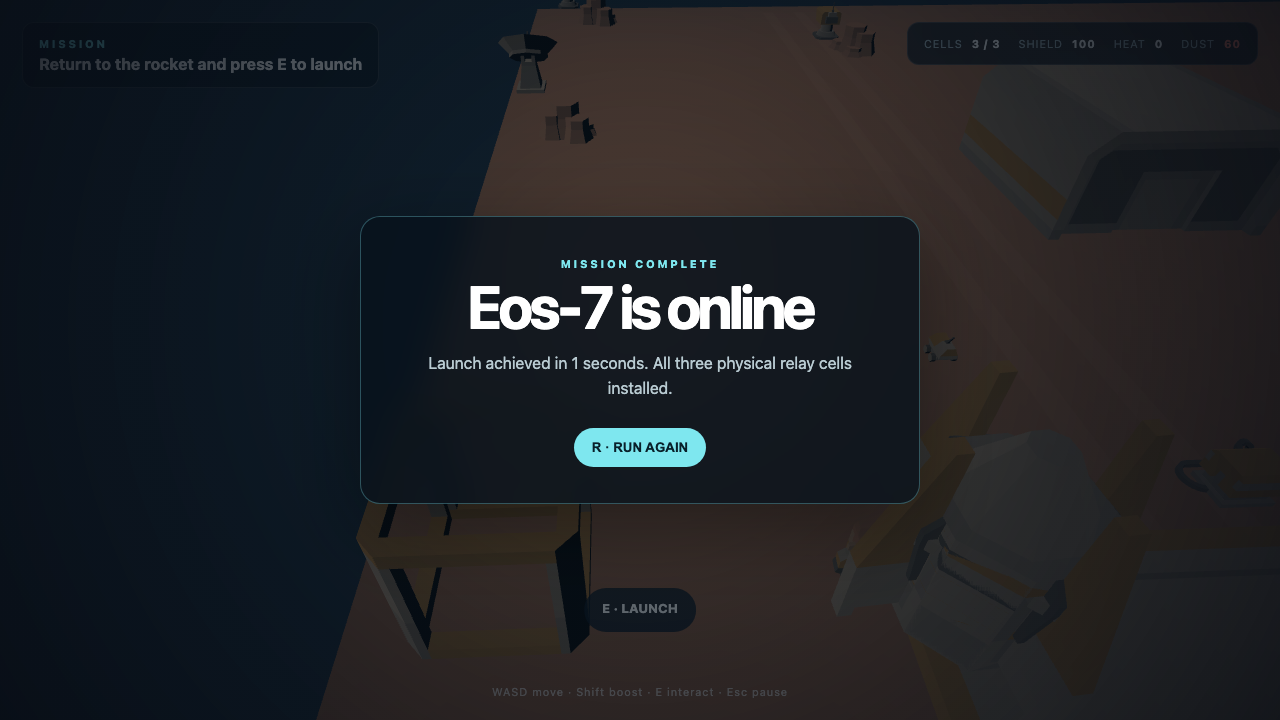
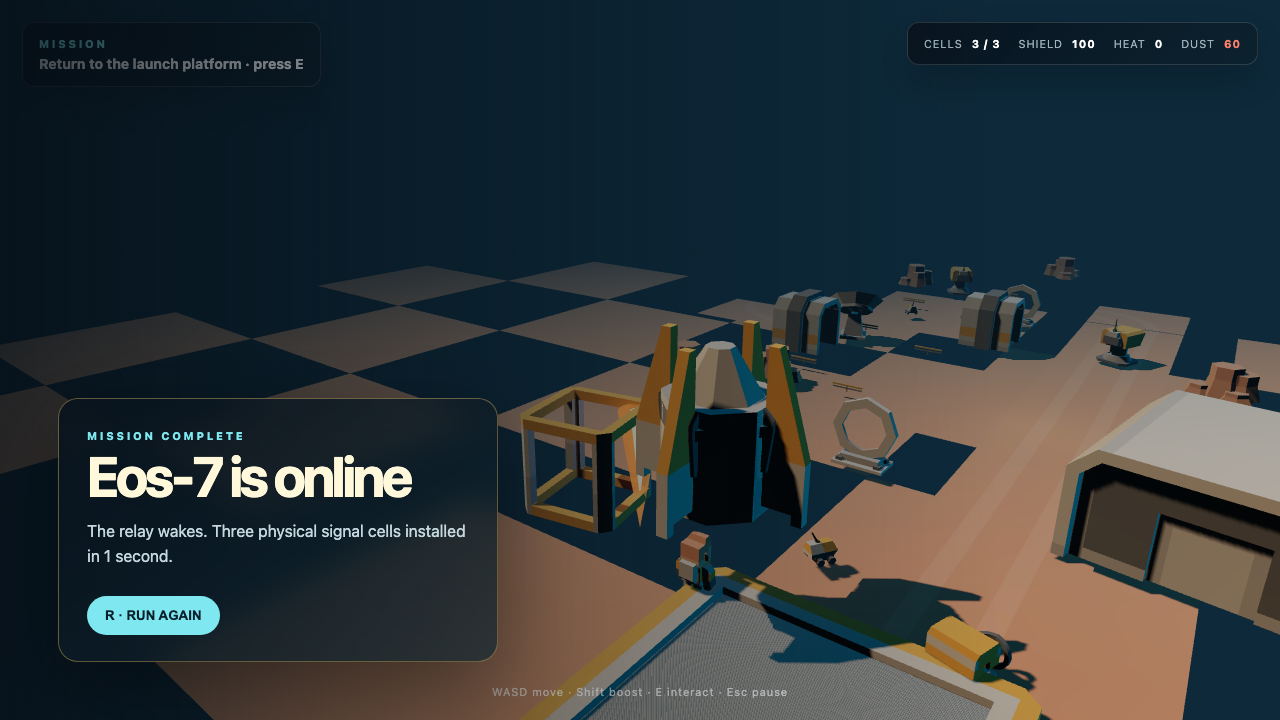
feat: polish Eos-7 world and controls
Improve the scene, camera-relative movement, launch presentation, and responsive HUD. Add configurable Vite host allowlisting plus deterministic and full-route browser coverage.\n\nVerified with npm test, npm run build, and npm run smoke (2 browser scenarios).

diff --git a/src/main.ts b/src/main.ts
@@ -4,28 +4,125 @@ import {GLTFLoader} from 'three/examples/jsm/loaders/GLTFLoader.js'
 import {freshState,install,launch,pickup,tickDanger,type GameState} from './game-state'
 
 const assetRoot='/assets/kenney-space-kit/'
-const assets=['astronautA','rover','rock_crystalsLargeA','rock_crystalsLargeB','rocket_baseA','rocket_fuelA','rocket_sidesA','rocket_finsA','rocket_topA','terrain','terrain_roadStraight','terrain_roadCorner','craterLarge','rock_largeA','rock_largeB','turret_single','structure_detailed','hangar_smallA','satelliteDish_large','platform_large','gate_simple','machine_generator'] as const
+const assets=['astronautA','rover','rock_crystalsLargeA','rock_crystalsLargeB','rocket_baseA','rocket_fuelA','rocket_sidesA','rocket_finsA','rocket_topA','terrain','terrain_roadStraight','terrain_roadCorner','craterLarge','rock_largeA','rock_largeB','turret_single','structure_detailed','hangar_smallA','satelliteDish_large','platform_large','gate_simple','machine_generator','corridor_detailed','rail_middle'] as const
 type Asset=typeof assets[number]
-const scene=new THREE.Scene();scene.background=new THREE.Color('#172735');scene.fog=new THREE.Fog('#172735',28,80)
-const camera=new THREE.PerspectiveCamera(58,innerWidth/innerHeight,.1,160)
-const renderer=new THREE.WebGLRenderer({antialias:true});renderer.setPixelRatio(Math.min(devicePixelRatio,1.75));renderer.setSize(innerWidth,innerHeight);renderer.shadowMap.enabled=true;renderer.shadowMap.type=THREE.PCFSoftShadowMap;renderer.outputColorSpace=THREE.SRGBColorSpace;document.querySelector('#game')!.append(renderer.domElement)
-scene.add(new THREE.HemisphereLight('#bde6ef','#283642',2.2));const sun=new THREE.DirectionalLight('#ffd6ab',3.4);sun.position.set(-18,26,10);sun.castShadow=true;sun.shadow.mapSize.set(2048,2048);scene.add(sun)
+
+const scene=new THREE.Scene()
+scene.background=new THREE.Color('#102837')
+scene.fog=new THREE.FogExp2('#102837',.018)
+const camera=new THREE.PerspectiveCamera(50,innerWidth/innerHeight,.1,160)
+const renderer=new THREE.WebGLRenderer({antialias:true})
+renderer.setPixelRatio(Math.min(devicePixelRatio,1.75))
+renderer.setSize(innerWidth,innerHeight)
+renderer.shadowMap.enabled=true
+renderer.shadowMap.type=THREE.PCFSoftShadowMap
+renderer.outputColorSpace=THREE.SRGBColorSpace
+renderer.toneMapping=THREE.ACESFilmicToneMapping
+renderer.toneMappingExposure=1.14
+document.querySelector('#game')!.append(renderer.domElement)
+
+scene.add(new THREE.HemisphereLight('#c9f0ff','#24303d',1.75))
+const sun=new THREE.DirectionalLight('#ffd7ae',4.2)
+sun.position.set(-16,24,12)
+sun.castShadow=true
+sun.shadow.mapSize.set(2048,2048)
+sun.shadow.camera.left=-28;sun.shadow.camera.right=28;sun.shadow.camera.top=28;sun.shadow.camera.bottom=-28
+scene.add(sun)
+const rim=new THREE.DirectionalLight('#70d9ff',1.6)
+rim.position.set(14,9,-20)
+scene.add(rim)
+
+const starsGeometry=new THREE.BufferGeometry()
+const starPositions=new Float32Array(360)
+for(let i=0;i<starPositions.length;i+=3){starPositions[i]=(Math.random()-.5)*130;starPositions[i+1]=18+Math.random()*44;starPositions[i+2]=-20-Math.random()*80}
+starsGeometry.setAttribute('position',new THREE.BufferAttribute(starPositions,3))
+scene.add(new THREE.Points(starsGeometry,new THREE.PointsMaterial({color:'#d8f5ff',size:.18,transparent:true,opacity:.75})))
+
 const clock=new THREE.Clock(),loader=new GLTFLoader(),models=new Map<Asset,THREE.Object3D>(),keys=new Set<string>()
-let state:GameState=freshState(),paused=false,player=new THREE.Group(),rocket=new THREE.Group(),rocketParts:THREE.Object3D[]=[],cells:THREE.Object3D[]=[],turrets:THREE.Object3D[]=[],elapsed=0,boostHeat=0,boostLocked=false
+let state:GameState=freshState(),paused=false,player=new THREE.Group(),rocket=new THREE.Group(),rocketExhaust=new THREE.Group(),rocketParts:THREE.Object3D[]=[],cells:THREE.Object3D[]=[],cellBeacons:THREE.Group[]=[],turrets:THREE.Object3D[]=[],elapsed=0,boostHeat=0,boostLocked=false,movementScale=1
 const startPosition=new THREE.Vector3(0,0,2),cellPositions=[new THREE.Vector3(0,0,-8),new THREE.Vector3(12,0,-20),new THREE.Vector3(-12,0,-34)],rocketPosition=new THREE.Vector3(0,0,7)
 const $=(selector:string)=>document.querySelector<HTMLElement>(selector)!
-function clone(name:Asset,position:THREE.Vector3,scale=1){const object=models.get(name)!.clone(true);object.position.copy(position);object.scale.setScalar(scale);object.traverse(child=>{if(child instanceof THREE.Mesh){child.castShadow=true;child.receiveShadow=true}});scene.add(object);return object}
 
-async function load(){await Promise.all(assets.map(async name=>{const gltf=await loader.loadAsync(`${assetRoot}${name}.glb`);models.set(name,gltf.scene);$('#load-status').textContent=`Loading Kenney assets · ${models.size}/${assets.length}`}));buildWorld();reset();$('#loading').hidden=true;$('#hud').hidden=false;animate()}
-function buildWorld(){for(let z=-40;z<=10;z+=10)for(let x=-20;x<=20;x+=10)clone('terrain',new THREE.Vector3(x,-.35,z),10);for(let z=-33;z<=7;z+=5)clone('terrain_roadStraight',new THREE.Vector3(0,-.22,z),5);clone('platform_large',rocketPosition.clone().setY(-.1),4);clone('structure_detailed',new THREE.Vector3(-8,0,5),2.8);clone('hangar_smallA',new THREE.Vector3(9,0,-9),3.2);clone('satelliteDish_large',new THREE.Vector3(-10,0,-19),3);clone('craterLarge',new THREE.Vector3(9,-.1,-27),4);clone('machine_generator',new THREE.Vector3(7,0,5),2);[[-7,-13],[7,-23],[-6,-29],[6,-36]].forEach(([x,z],i)=>clone(i%2?'rock_largeB':'rock_largeA',new THREE.Vector3(x,0,z),2.4));turrets=[clone('turret_single',new THREE.Vector3(7,0,-25),2),clone('turret_single',new THREE.Vector3(-7,0,-32),2)];rocket.position.copy(rocketPosition);scene.add(rocket);for(const name of ['rocket_baseA','rocket_sidesA'] as Asset[]){const p=models.get(name)!.clone(true);p.scale.setScalar(2.3);rocket.add(p)}rocketParts=(['rocket_fuelA','rocket_finsA','rocket_topA'] as Asset[]).map((name,i)=>{const p=models.get(name)!.clone(true);p.scale.setScalar(2.3);p.position.y=i*.82;p.visible=false;rocket.add(p);return p});player.add(models.get('astronautA')!.clone(true));player.scale.setScalar(1.7);scene.add(player);clone('rover',new THREE.Vector3(3,0,1),2);cells=cellPositions.map((p,i)=>clone(i===1?'rock_crystalsLargeB':'rock_crystalsLargeA',p,2.2))}
-function reset(){state=freshState();elapsed=0;boostHeat=0;boostLocked=false;paused=false;player.position.copy(startPosition);player.rotation.set(0,0,0);cells.forEach((cell,i)=>{cell.position.copy(cellPositions[i]);cell.visible=true});rocketParts.forEach(p=>p.visible=false);rocket.position.copy(rocketPosition);rocket.rotation.set(0,0,0);$('#terminal').hidden=true;$('#pause').hidden=true;updateHud()}
-function nearbyCell(){return cells.findIndex((cell,i)=>!state.collected[i]&&cell.position.distanceTo(player.position)<2.8)}
-function interact(){if(state.phase!=='playing')return;const cell=nearbyCell();if(cell>=0&&state.carrying===null){state=pickup(state,cell);cells[cell].visible=false;chirp(620);updateHud();return}if(state.carrying!==null&&player.position.distanceTo(rocketPosition)<4){state=install(state);rocketParts[state.installed-1].visible=true;chirp(880);updateHud();return}if(state.installed===3&&player.position.distanceTo(rocketPosition)<4){state=launch(state);chirp(1100);finish()}}
+function prepare(object:THREE.Object3D){object.traverse(child=>{if(child instanceof THREE.Mesh){child.castShadow=true;child.receiveShadow=true}});return object}
+function clone(name:Asset,position:THREE.Vector3,scale=1,rotation=0){const object=prepare(models.get(name)!.clone(true));object.position.copy(position);object.scale.setScalar(scale);object.rotation.y=rotation;scene.add(object);return object}
+function accent(position:THREE.Vector3,color:string,intensity=4,distance=11){const light=new THREE.PointLight(color,intensity,distance,2);light.position.copy(position);scene.add(light);return light}
+function createBeacon(position:THREE.Vector3,color:string){const group=new THREE.Group();group.position.copy(position);const material=new THREE.MeshBasicMaterial({color,transparent:true,opacity:.82});const ring=new THREE.Mesh(new THREE.TorusGeometry(1.28,.065,8,32),material);ring.rotation.x=Math.PI/2;ring.position.y=.1;group.add(ring);const beam=new THREE.Mesh(new THREE.CylinderGeometry(.1,.34,4.8,12,1,true),new THREE.MeshBasicMaterial({color,transparent:true,opacity:.18,depthWrite:false}));beam.position.y=2.4;group.add(beam);const marker=new THREE.Mesh(new THREE.OctahedronGeometry(.22),material);marker.position.y=4.9;group.add(marker);const light=new THREE.PointLight(color,5.8,8,2);light.position.y=1.2;group.add(light);scene.add(group);return group}
+
+async function load(){await Promise.all(assets.map(async name=>{const gltf=await loader.loadAsync(`${assetRoot}${name}.glb`);models.set(name,prepare(gltf.scene));$('#load-status').textContent=`Loading Kenney Space Kit · ${models.size}/${assets.length}`}));buildWorld();reset();$('#loading').hidden=true;$('#hud').hidden=false;animate()}
+
+function buildWorld(){
+  for(let z=-40;z<=10;z+=10)for(let x=-20;x<=20;x+=10){const tile=clone('terrain',new THREE.Vector3(x,-.35,z),10,((x+z)/10%2)*Math.PI/2);tile.position.y=-.4}
+  for(let z=-33;z<=7;z+=5)clone('terrain_roadStraight',new THREE.Vector3(0,-.2,z),5)
+  clone('terrain_roadCorner',new THREE.Vector3(5,-.18,-18),5,Math.PI/2)
+  clone('terrain_roadCorner',new THREE.Vector3(-5,-.18,-30),5,-Math.PI/2)
+
+  clone('platform_large',rocketPosition.clone().setY(-.08),4.2)
+  clone('structure_detailed',new THREE.Vector3(-8.5,0,4.5),3.25,.18)
+  clone('hangar_smallA',new THREE.Vector3(9.5,0,-7),3.5,-.18)
+  clone('satelliteDish_large',new THREE.Vector3(-10.5,0,-18),3.45,.35)
+  clone('machine_generator',new THREE.Vector3(7.2,0,4),2.45,-.3)
+  clone('corridor_detailed',new THREE.Vector3(-7.6,0,-7),2.65,Math.PI/2)
+  clone('corridor_detailed',new THREE.Vector3(8,0,-24),2.55,-Math.PI/2)
+  clone('gate_simple',new THREE.Vector3(0,0,-3.6),2.35)
+  clone('gate_simple',new THREE.Vector3(0,0,-27.5),2.2)
+  clone('rover',new THREE.Vector3(4,0,1),2.45,-.55)
+  clone('rover',new THREE.Vector3(-6.8,0,-22),2.15,.75)
+
+  ;[[-4,-4],[4,-4],[-5,-12],[5,-12],[-5,-20],[5,-20],[-5,-28],[5,-28]].forEach(([x,z],i)=>clone('rail_middle',new THREE.Vector3(x,0,z),1.4,i%2?Math.PI:0))
+  clone('craterLarge',new THREE.Vector3(10,-.08,-30),5)
+  ;[[-8,-11],[8,-15],[-7,-25],[7,-35],[-13,-6],[13,-16]].forEach(([x,z],i)=>clone(i%2?'rock_largeB':'rock_largeA',new THREE.Vector3(x,0,z),2.8,(i*.9)%Math.PI))
+  turrets=[clone('turret_single',new THREE.Vector3(7,0,-25),2.55,-.4),clone('turret_single',new THREE.Vector3(-7,0,-32),2.55,.4)]
+
+  accent(new THREE.Vector3(0,3,6),'#ff9a5f',5.2,15)
+  accent(new THREE.Vector3(-8,2.2,3),'#78ddff',4.2,12)
+  accent(new THREE.Vector3(9,2,-8),'#ffd16e',3.4,12)
+  accent(new THREE.Vector3(-10,3,-18),'#73bfff',3.6,13)
+
+  rocket.position.copy(rocketPosition);scene.add(rocket)
+  for(const name of ['rocket_baseA','rocket_sidesA'] as Asset[]){const part=prepare(models.get(name)!.clone(true));part.scale.setScalar(2.55);rocket.add(part)}
+  rocketParts=(['rocket_fuelA','rocket_finsA','rocket_topA'] as Asset[]).map((name,i)=>{const part=prepare(models.get(name)!.clone(true));part.scale.setScalar(2.55);part.position.y=i*.9;part.visible=false;rocket.add(part);return part})
+  const outerFlame=new THREE.Mesh(new THREE.ConeGeometry(.72,4.2,18),new THREE.MeshBasicMaterial({color:'#ff7a35',transparent:true,opacity:.72,depthWrite:false,side:THREE.DoubleSide}));outerFlame.rotation.z=Math.PI;outerFlame.position.y=-2.3;rocketExhaust.add(outerFlame)
+  const innerFlame=new THREE.Mesh(new THREE.ConeGeometry(.32,3.1,14),new THREE.MeshBasicMaterial({color:'#fff2a8',transparent:true,opacity:.92,depthWrite:false,side:THREE.DoubleSide}));innerFlame.rotation.z=Math.PI;innerFlame.position.y=-1.75;rocketExhaust.add(innerFlame)
+  const exhaustLight=new THREE.PointLight('#ff9c52',7,14,2);exhaustLight.position.y=-1.2;rocketExhaust.add(exhaustLight);rocketExhaust.visible=false;rocket.add(rocketExhaust)
+  player.add(prepare(models.get('astronautA')!.clone(true)));player.scale.setScalar(2.2);scene.add(player)
+  cells=cellPositions.map((position,i)=>clone(i===1?'rock_crystalsLargeB':'rock_crystalsLargeA',position,2.65,i*.7))
+  cellBeacons=cellPositions.map((position,i)=>createBeacon(position.clone(),i===1?'#ffb158':'#6ef3ff'))
+}
+
+function reset(){state=freshState();elapsed=0;boostHeat=0;boostLocked=false;paused=false;player.position.copy(startPosition);player.rotation.set(0,0,0);cells.forEach((cell,i)=>{cell.position.copy(cellPositions[i]);cell.visible=true;cellBeacons[i].visible=true});rocketParts.forEach(part=>part.visible=false);rocketExhaust.visible=false;rocket.position.copy(rocketPosition);rocket.rotation.set(0,0,0);camera.position.set(startPosition.x+8.8,8.2,startPosition.z+11.5);camera.lookAt(startPosition.x,startPosition.y+1.4,startPosition.z-2.5);$('#terminal').hidden=true;$('#pause').hidden=true;document.body.classList.remove('mission-complete');updateHud()}
+function nearbyCell(){return cells.findIndex((cell,i)=>!state.collected[i]&&cell.position.distanceTo(player.position)<3.2)}
+function interact(){if(state.phase!=='playing')return;const cell=nearbyCell();if(cell>=0&&state.carrying===null){state=pickup(state,cell);cells[cell].visible=false;cellBeacons[cell].visible=false;chirp(620);updateHud();return}if(state.carrying!==null&&player.position.distanceTo(rocketPosition)<4.8){state=install(state);rocketParts[state.installed-1].visible=true;chirp(880);updateHud();return}if(state.installed===3&&player.position.distanceTo(rocketPosition)<4.8){state=launch(state);chirp(1100);finish()}}
 function chirp(frequency:number){const ctx=new AudioContext(),osc=ctx.createOscillator(),gain=ctx.createGain();osc.frequency.value=frequency;gain.gain.setValueAtTime(.045,ctx.currentTime);gain.gain.exponentialRampToValueAtTime(.001,ctx.currentTime+.12);osc.connect(gain).connect(ctx.destination);osc.start();osc.stop(ctx.currentTime+.13)}
-function updateHud(){$('#cells').textContent=`${state.installed} / 3`;$('#shield').textContent=Math.ceil(state.shield).toString();$('#heat').textContent=boostLocked?'COOL':Math.ceil(boostHeat).toString();$('#timer-wrap').hidden=state.dustSeconds===null;$('#timer').textContent=Math.ceil(state.dustSeconds??60).toString();$('#objective').textContent=state.installed===3?'Return to the rocket and press E to launch':state.carrying!==null?'Deliver the signal cell to the rocket':`Recover signal cell ${state.installed+1}`}
-function finish(){const success=state.phase==='completed';$('#terminal-tag').textContent=success?'MISSION COMPLETE':'SIGNAL LOST';$('#terminal-title').textContent=success?'Eos-7 is online':state.phase==='failed_timer'?'The dust front arrived':'Your shield collapsed';$('#terminal-copy').textContent=success?`Launch achieved in ${Math.max(1,Math.round(elapsed))} seconds. All three physical relay cells installed.`:'Press R to reset every system and try a safer route.';$('#terminal').hidden=false}
-function move(dt:number){if(paused||state.phase!=='playing')return;const direction=new THREE.Vector3((keys.has('KeyD')||keys.has('ArrowRight')?1:0)-(keys.has('KeyA')||keys.has('ArrowLeft')?1:0),0,(keys.has('KeyS')||keys.has('ArrowDown')?1:0)-(keys.has('KeyW')||keys.has('ArrowUp')?1:0));const wantsBoost=keys.has('ShiftLeft')||keys.has('ShiftRight');const boosting=wantsBoost&&!boostLocked&&direction.lengthSq()>0;if(boosting){boostHeat=Math.min(100,boostHeat+34*dt);if(boostHeat>=100)boostLocked=true}else{boostHeat=Math.max(0,boostHeat-22*dt);if(boostLocked&&boostHeat<=18)boostLocked=false}if(direction.lengthSq()){direction.normalize();const speed=boosting?9:4.2;player.position.addScaledVector(direction,speed*dt);player.position.x=THREE.MathUtils.clamp(player.position.x,-19,19);player.position.z=THREE.MathUtils.clamp(player.position.z,-39,9);player.rotation.y=Math.atan2(direction.x,direction.z);player.rotation.z=THREE.MathUtils.lerp(player.rotation.z,-direction.x*.12,.12)}else player.rotation.z*=.88;const inDanger=turrets.some(t=>t.position.distanceTo(player.position)<7);state=tickDanger(state,dt,inDanger?12*dt:0);if(state.phase!=='playing')finish()}
-function animate(){requestAnimationFrame(animate);const dt=Math.min(clock.getDelta(),.05);if(!paused&&state.phase==='playing')elapsed+=dt;move(dt);cells.forEach((cell,i)=>{cell.rotation.y+=dt*.8;cell.position.y=cellPositions[i].y+.2+Math.sin(elapsed*2+i)*.16});if(state.phase==='completed'){rocket.position.y+=dt*2.5;rocket.rotation.y+=dt*.5}const target=new THREE.Vector3(player.position.x,player.position.y+10,player.position.z+13);camera.position.lerp(target,1-Math.pow(.001,dt));camera.lookAt(player.position.x,player.position.y+1,player.position.z-2);const cell=nearbyCell();let prompt='';if(cell>=0&&state.carrying===null)prompt='E · PICK UP SIGNAL CELL';else if(player.position.distanceTo(rocketPosition)<4&&state.carrying!==null)prompt='E · INSTALL CELL';else if(player.position.distanceTo(rocketPosition)<4&&state.installed===3)prompt='E · LAUNCH';$('#prompt').textContent=prompt;$('#prompt').classList.toggle('visible',Boolean(prompt));updateHud();renderer.render(scene,camera)}
-addEventListener('keydown',e=>{keys.add(e.code);if(e.code==='KeyE'&&!e.repeat)interact();if(e.code==='KeyR')reset();if(e.code==='Escape'){paused=!paused;$('#pause').hidden=!paused}});addEventListener('keyup',e=>keys.delete(e.code));addEventListener('resize',()=>{camera.aspect=innerWidth/innerHeight;camera.updateProjectionMatrix();renderer.setSize(innerWidth,innerHeight)});$('#restart').addEventListener('click',reset)
-Object.assign(window,{__EOS7__:{getState:()=>structuredClone(state),teleport:(x:number,z:number)=>player.position.set(x,0,z),interact,reset}})
+function updateHud(){$('#cells').textContent=`${state.installed} / 3`;$('#shield').textContent=Math.ceil(state.shield).toString();$('#heat').textContent=boostLocked?'COOL':Math.ceil(boostHeat).toString();$('#timer-wrap').hidden=state.dustSeconds===null;$('#timer').textContent=Math.ceil(state.dustSeconds??60).toString();$('#objective').textContent=state.installed===3?'Return to the launch platform · press E':state.carrying!==null?'Carry the glowing cell back to the rocket':`Follow the beacon · recover cell ${state.installed+1}`}
+function finish(){const success=state.phase==='completed',duration=Math.max(1,Math.round(elapsed));if(success){rocketExhaust.visible=true;rocket.position.y=3.2;camera.position.set(rocketPosition.x+14,11.2,rocketPosition.z+18);camera.lookAt(rocketPosition.x,rocket.position.y+1.5,rocketPosition.z)}$('#terminal-tag').textContent=success?'MISSION COMPLETE':'SIGNAL LOST';$('#terminal-title').textContent=success?'Eos-7 is online':state.phase==='failed_timer'?'The dust front arrived':'Your shield collapsed';$('#terminal-copy').textContent=success?`The relay wakes. Three physical signal cells installed in ${duration} ${duration===1?'second':'seconds'}.`:'Press R to reset every system and try a safer route.';$('#terminal').hidden=false;document.body.classList.toggle('mission-complete',success)}
+function movementBasis(){const forward=new THREE.Vector3();camera.getWorldDirection(forward);forward.y=0;forward.normalize();const right=new THREE.Vector3().crossVectors(forward,new THREE.Vector3(0,1,0)).normalize();return{forward,right}}
+function move(dt:number){
+  if(paused||state.phase!=='playing')return
+  const forwardInput=(keys.has('KeyW')||keys.has('ArrowUp')?1:0)-(keys.has('KeyS')||keys.has('ArrowDown')?1:0)
+  const rightInput=(keys.has('KeyD')||keys.has('ArrowRight')?1:0)-(keys.has('KeyA')||keys.has('ArrowLeft')?1:0)
+  const {forward,right}=movementBasis()
+  const direction=forward.multiplyScalar(forwardInput).add(right.multiplyScalar(rightInput))
+  const wantsBoost=keys.has('ShiftLeft')||keys.has('ShiftRight')
+  const boosting=wantsBoost&&!boostLocked&&direction.lengthSq()>0
+  if(boosting){boostHeat=Math.min(100,boostHeat+34*dt);if(boostHeat>=100)boostLocked=true}else{boostHeat=Math.max(0,boostHeat-22*dt);if(boostLocked&&boostHeat<=18)boostLocked=false}
+  const avatar=player.children[0]
+  if(direction.lengthSq()){
+    direction.normalize();const speed=(boosting?6.8:4.2)*movementScale
+    player.position.addScaledVector(direction,speed*dt);player.position.y=0
+    player.position.x=THREE.MathUtils.clamp(player.position.x,-19,19);player.position.z=THREE.MathUtils.clamp(player.position.z,-39,9)
+    player.rotation.y=Math.atan2(direction.x,direction.z);player.rotation.z=THREE.MathUtils.lerp(player.rotation.z,-rightInput*.07,.12)
+    if(avatar){avatar.position.y=Math.abs(Math.sin(elapsed*8))*.075;avatar.rotation.z=Math.sin(elapsed*8)*.025}
+  }else{
+    player.position.y=0;player.rotation.z*=.82
+    if(avatar){avatar.position.y=THREE.MathUtils.lerp(avatar.position.y,0,.22);avatar.rotation.z*=.78}
+  }
+  const inDanger=turrets.some(turret=>turret.position.distanceTo(player.position)<7);state=tickDanger(state,dt,inDanger?12*dt:0);if(state.phase!=='playing')finish()
+}
+function animate(){requestAnimationFrame(animate);const dt=Math.min(clock.getDelta(),.05);if(!paused&&state.phase==='playing')elapsed+=dt;move(dt);cells.forEach((cell,i)=>{cell.rotation.y+=dt*.8;cell.position.y=cellPositions[i].y+.25+Math.sin(elapsed*2+i)*.16;cellBeacons[i].rotation.y+=dt*.55});if(state.phase==='completed'){rocket.position.y+=dt*2.5;rocket.rotation.y+=dt*.5}if(state.phase==='playing'){const target=new THREE.Vector3(player.position.x+8.8,player.position.y+8.2,player.position.z+11.5);camera.position.lerp(target,1-Math.pow(.0005,dt));camera.lookAt(player.position.x,player.position.y+1.4,player.position.z-2.5)}else if(state.phase==='completed'){const target=new THREE.Vector3(rocket.position.x+14,rocket.position.y+11.2,rocket.position.z+18);camera.position.lerp(target,1-Math.pow(.0005,dt));camera.lookAt(rocket.position.x,rocket.position.y+1.5,rocket.position.z)}const cell=nearbyCell();let prompt='';if(state.phase==='playing'){if(cell>=0&&state.carrying===null)prompt='E · PICK UP SIGNAL CELL';else if(player.position.distanceTo(rocketPosition)<4.8&&state.carrying!==null)prompt='E · INSTALL CELL';else if(player.position.distanceTo(rocketPosition)<4.8&&state.installed===3)prompt='E · LAUNCH'}$('#prompt').textContent=prompt;$('#prompt').classList.toggle('visible',Boolean(prompt));updateHud();renderer.render(scene,camera)}
+
+addEventListener('keydown',event=>{keys.add(event.code);if(event.code==='KeyE'&&!event.repeat)interact();if(event.code==='KeyR')reset();if(event.code==='Escape'){paused=!paused;$('#pause').hidden=!paused}})
+addEventListener('keyup',event=>keys.delete(event.code))
+addEventListener('resize',()=>{camera.aspect=innerWidth/innerHeight;camera.updateProjectionMatrix();renderer.setSize(innerWidth,innerHeight)})
+$('#restart').addEventListener('click',reset)
+Object.assign(window,{__EOS7__:{getState:()=>structuredClone(state),getPlayerPosition:()=>({x:player.position.x,z:player.position.z}),getMovementBasis:()=>{const {forward,right}=movementBasis();return{forward:{x:forward.x,z:forward.z},right:{x:right.x,z:right.z}}},setMovementScale:(scale:number)=>{movementScale=THREE.MathUtils.clamp(scale,1,8)},teleport:(x:number,z:number)=>player.position.set(x,0,z),interact,reset}})
 load().catch(error=>{console.error(error);$('#load-status').textContent=`Asset load failed: ${error instanceof Error?error.message:String(error)}`})

diff --git a/tests/browser.spec.ts b/tests/browser.spec.ts
@@ -1,5 +1,27 @@
 import {expect,test} from '@playwright/test'
+
 const held=async(page:any,code:string,ms:number)=>{await page.keyboard.down(code);await page.waitForTimeout(ms);await page.keyboard.up(code)}
+async function moveTo(page:any,targetX:number,targetZ:number,tolerance=1.8){
+  let previousDistance=Number.POSITIVE_INFINITY,stalledSteps=0
+  for(let step=0;step<320;step++){
+    const sample=await page.evaluate(()=>{const game=(window as any).__EOS7__;return{position:game.getPlayerPosition(),basis:game.getMovementBasis()}})
+    const dx=targetX-sample.position.x,dz=targetZ-sample.position.z,distance=Math.hypot(dx,dz)
+    if(distance<=tolerance)return
+    stalledSteps=distance>=previousDistance-.02?stalledSteps+1:0
+    if(stalledSteps>=30)throw new Error(`Keyboard navigation stalled at ${sample.position.x.toFixed(2)},${sample.position.z.toFixed(2)} while targeting ${targetX},${targetZ}`)
+    previousDistance=distance
+    const directions=[
+      {key:'w',...sample.basis.forward},
+      {key:'d',...sample.basis.right},
+      {key:'s',x:-sample.basis.forward.x,z:-sample.basis.forward.z},
+      {key:'a',x:-sample.basis.right.x,z:-sample.basis.right.z},
+    ]
+    const direction=directions.reduce((best,current)=>current.x*dx+current.z*dz>best.x*dx+best.z*dz?current:best)
+    await held(page,direction.key,Math.min(220,Math.max(60,distance*20)))
+  }
+  throw new Error(`Keyboard navigation did not reach ${targetX},${targetZ}`)
+}
+
 test('keyboard-driven full loop, launch, and restart',async({page})=>{const errors:string[]=[],failed:string[]=[];page.on('console',m=>{if(m.type()==='error')errors.push(m.text())});page.on('requestfailed',r=>failed.push(`${r.url()} ${r.failure()?.errorText}`));await page.goto('/');await expect(page.locator('#loading')).toBeHidden({timeout:20000});await page.screenshot({path:'evidence/onboarding.png'});for(const [x,z] of [[0,-8],[12,-20],[-12,-34]]){await page.evaluate(([px,pz])=>(window as any).__EOS7__.teleport(px,pz),[x,z]);await page.keyboard.press('e');await page.evaluate(()=>(window as any).__EOS7__.teleport(0,7));await page.keyboard.press('e')}await expect(page.locator('#cells')).toHaveText('3 / 3');await page.keyboard.press('e');await expect(page.locator('#terminal-title')).toHaveText('Eos-7 is online');await page.screenshot({path:'evidence/completed.png'});await page.keyboard.press('r');await expect(page.locator('#cells')).toHaveText('0 / 3');await expect(page.locator('#terminal')).toBeHidden();expect(errors).toEqual([]);expect(failed).toEqual([]);expect(await page.evaluate(()=>({x:document.documentElement.scrollWidth-innerWidth,y:document.documentElement.scrollHeight-innerHeight}))).toEqual({x:0,y:0})})
 
-test('held movement keys traverse every route without phase skip',async({page})=>{test.setTimeout(100000);await page.goto('/');await expect(page.locator('#loading')).toBeHidden({timeout:20000});await held(page,'w',2400);await page.keyboard.press('e');expect(await page.evaluate(()=>(window as any).__EOS7__.getState().carrying)).toBe(0);await held(page,'s',3600);await page.keyboard.press('e');await expect(page.locator('#cells')).toHaveText('1 / 3');await held(page,'w',6400);await held(page,'d',2850);await page.keyboard.press('e');expect(await page.evaluate(()=>(window as any).__EOS7__.getState().carrying)).toBe(1);await held(page,'a',2850);await held(page,'s',6400);await page.keyboard.press('e');await expect(page.locator('#cells')).toHaveText('2 / 3');await held(page,'a',4300);await held(page,'w',9800);await held(page,'d',1450);await page.keyboard.press('e');expect(await page.evaluate(()=>(window as any).__EOS7__.getState().carrying)).toBe(2);await held(page,'a',1450);await held(page,'s',9800);await held(page,'d',4300);await page.keyboard.press('e');await expect(page.locator('#cells')).toHaveText('3 / 3');await page.keyboard.press('e');await expect(page.locator('#terminal-title')).toHaveText('Eos-7 is online');await page.keyboard.press('r');await expect(page.locator('#cells')).toHaveText('0 / 3')})
+test('camera-relative WASD traverses every route without phase skip',async({page})=>{test.setTimeout(140000);await page.goto('/');await expect(page.locator('#loading')).toBeHidden({timeout:20000});await page.evaluate(()=>(window as any).__EOS7__.setMovementScale(8));await moveTo(page,0,-8);await page.keyboard.press('e');expect(await page.evaluate(()=>(window as any).__EOS7__.getState().carrying)).toBe(0);await moveTo(page,0,7);await page.keyboard.press('e');await expect(page.locator('#cells')).toHaveText('1 / 3');await moveTo(page,12,-20);await page.keyboard.press('e');expect(await page.evaluate(()=>(window as any).__EOS7__.getState().carrying)).toBe(1);await moveTo(page,0,7);await page.keyboard.press('e');await expect(page.locator('#cells')).toHaveText('2 / 3');await moveTo(page,-12,-34);await page.keyboard.press('e');expect(await page.evaluate(()=>(window as any).__EOS7__.getState().carrying)).toBe(2);await moveTo(page,0,7);await page.keyboard.press('e');await expect(page.locator('#cells')).toHaveText('3 / 3');await page.keyboard.press('e');await expect(page.locator('#terminal-title')).toHaveText('Eos-7 is online');await page.keyboard.press('r');await expect(page.locator('#cells')).toHaveText('0 / 3')})

diff --git a/src/style.css b/src/style.css
@@ -1,1 +1,1 @@
-:root{font-family:Inter,ui-sans-serif,system-ui,sans-serif;color:#fff;background:#101923}*{box-sizing:border-box}body{margin:0;overflow:hidden}canvas{display:block;width:100vw;height:100vh}.screen{position:fixed;inset:0;display:grid;place-items:center;padding:24px;background:radial-gradient(circle at 50% 45%,rgba(9,27,40,.5),rgba(7,12,20,.9));z-index:5;text-align:center}.screen[hidden],#hud[hidden]{display:none}.screen>div{max-width:560px;padding:36px;border:1px solid rgba(128,231,244,.3);border-radius:20px;background:rgba(7,17,27,.78);box-shadow:0 24px 80px rgba(0,0,0,.38);backdrop-filter:blur(16px)}h1,h2{margin:8px 0 10px;font-size:clamp(38px,7vw,78px);line-height:.92;letter-spacing:-.06em}h2{font-size:clamp(34px,5vw,60px)}p{color:#b9cbd2;line-height:1.6}.eyebrow{color:#7ee7ef;font-size:11px;font-weight:800;letter-spacing:.24em}#hud{position:fixed;inset:0;z-index:2;pointer-events:none;padding:22px}.mission,.meters{position:absolute;top:22px;padding:14px 16px;border:1px solid rgba(255,255,255,.14);border-radius:12px;background:rgba(7,17,27,.75);backdrop-filter:blur(12px)}.mission{left:22px;display:grid;gap:5px;max-width:420px}.meters{right:22px;display:flex;gap:18px;color:#9db1b9;font-size:11px;letter-spacing:.08em}.meters b{color:#fff;margin-left:5px}#timer-wrap b{color:#ff806b}#prompt{position:absolute;left:50%;bottom:88px;transform:translateX(-50%);min-height:44px;padding:12px 18px;border-radius:99px;background:rgba(8,20,31,.82);font-size:13px;font-weight:750;opacity:0;transition:opacity .2s}#prompt.visible{opacity:1}.controls{position:absolute;bottom:22px;left:50%;transform:translateX(-50%);color:rgba(255,255,255,.65);font-size:11px;letter-spacing:.08em;white-space:nowrap}button{pointer-events:auto;margin-top:10px;padding:12px 18px;border:0;border-radius:99px;background:#7ee7ef;color:#09202a;font-weight:850;cursor:pointer}@media(max-height:560px){#hud{padding:12px}.mission,.meters{top:12px}.mission{left:12px}.meters{right:12px}.controls{bottom:10px}#prompt{bottom:44px}}
+:root{font-family:Inter,ui-sans-serif,system-ui,sans-serif;color:#fff;background:#0c1821}*{box-sizing:border-box}body{margin:0;overflow:hidden}canvas{display:block;width:100vw;height:100vh}.screen{position:fixed;inset:0;display:grid;place-items:center;padding:24px;background:radial-gradient(circle at 50% 45%,rgba(9,27,40,.5),rgba(7,12,20,.9));z-index:5;text-align:center}.screen[hidden],#hud[hidden]{display:none}.screen>div{max-width:560px;padding:36px;border:1px solid rgba(128,231,244,.3);border-radius:20px;background:rgba(7,17,27,.78);box-shadow:0 24px 80px rgba(0,0,0,.38);backdrop-filter:blur(16px)}h1,h2{margin:8px 0 10px;font-size:clamp(38px,7vw,78px);line-height:.92;letter-spacing:-.06em}h2{font-size:clamp(34px,5vw,60px)}p{color:#c6d8df;line-height:1.6}.eyebrow{color:#7ee7ef;font-size:11px;font-weight:800;letter-spacing:.24em}#hud{position:fixed;inset:0;z-index:2;pointer-events:none;padding:22px}.mission,.meters{position:absolute;top:22px;padding:14px 16px;border:1px solid rgba(255,255,255,.14);border-radius:12px;background:linear-gradient(135deg,rgba(7,17,27,.88),rgba(11,31,42,.7));box-shadow:0 16px 40px rgba(0,0,0,.22);backdrop-filter:blur(12px)}.mission{left:22px;display:grid;gap:5px;max-width:420px}.mission strong{font-size:14px}.meters{right:22px;display:flex;gap:18px;color:#9db1b9;font-size:11px;letter-spacing:.08em}.meters b{color:#fff;margin-left:5px}#timer-wrap b{color:#ff806b}#prompt{position:absolute;left:50%;bottom:76px;transform:translateX(-50%);min-height:44px;padding:12px 18px;border:1px solid rgba(126,231,239,.42);border-radius:99px;background:rgba(8,20,31,.9);box-shadow:0 0 28px rgba(126,231,239,.16);font-size:13px;font-weight:800;letter-spacing:.04em;opacity:0;transition:opacity .2s}#prompt.visible{opacity:1}.controls{position:absolute;bottom:22px;left:50%;transform:translateX(-50%);color:rgba(255,255,255,.65);font-size:11px;letter-spacing:.08em;white-space:nowrap}button{pointer-events:auto;margin-top:10px;padding:12px 18px;border:0;border-radius:99px;background:#7ee7ef;color:#09202a;font-weight:850;cursor:pointer}#terminal.screen{place-items:end start;padding:clamp(20px,5vw,58px);text-align:left;background:linear-gradient(90deg,rgba(5,13,20,.78) 0%,rgba(5,13,20,.22) 50%,transparent 78%);pointer-events:none}#terminal.screen>div{width:min(440px,calc(100vw - 40px));padding:26px 28px;border-color:rgba(255,209,110,.35);background:linear-gradient(145deg,rgba(7,18,28,.9),rgba(17,37,47,.72));pointer-events:auto}#terminal h2{font-size:clamp(34px,5vw,56px);color:#fff8db}.mission-complete canvas{filter:saturate(1.14)}@media(max-height:560px){#hud{padding:12px}.mission,.meters{top:12px}.mission{left:12px}.meters{right:12px}.controls{bottom:10px}#prompt{bottom:42px}.screen>div{padding:24px}#terminal.screen{padding:16px}}@media(max-width:720px){.meters{top:auto;right:12px;bottom:12px;gap:10px}.mission{left:12px;top:12px;max-width:calc(100vw - 24px)}.controls{display:none}#prompt{bottom:74px}.meters span:nth-child(3){display:none}}

diff --git a/vite.config.ts b/vite.config.ts
@@ -1,0 +1,11 @@
+import {defineConfig} from 'vite'
+
+const allowedHosts=(process.env.DEV_ALLOWED_HOSTS??'')
+  .split(',')
+  .map(host=>host.trim())
+  .filter(Boolean)
+
+export default defineConfig({
+  server:{allowedHosts},
+  preview:{allowedHosts},
+})

diff --git a/README.md b/README.md
@@ -11,6 +11,12 @@ npm run dev
 
 Controls: WASD or arrow keys to move, Shift to boost, E to pick up/install/launch, Esc to pause, and R to restart after any state. Boost builds heat, locks at 100, and becomes available again after cooling below 18.
 
+To expose the development or preview server through trusted hostnames, provide a comma-separated allowlist without committing machine-specific addresses:
+
+```bash
+DEV_ALLOWED_HOSTS=example.internal,192.0.2.10 npm run dev -- --host 0.0.0.0
+```
+
 ## Verification
 
 ```bash
@@ -20,7 +26,7 @@ npx playwright install chromium
 npm run smoke
 ```
 
-The browser smoke loads every gameplay model, drives pickup/install/launch using real keyboard events, verifies restart, checks console/network failures and viewport overflow, and captures `evidence/completed.png`.
+The browser smoke loads every gameplay model, drives pickup/install/launch using real keyboard events, verifies restart, checks console/network failures and viewport overflow, and captures `evidence/completed.png`. A second scenario traverses the full route with camera-relative keyboard movement rather than teleporting between interaction points.
 
 ## Assets and license
 
@@ -35,4 +41,4 @@ The visible player, rover, cells, terrain, roads, station, landmarks, hazards, a
 
 - The astronaut is static, so movement feedback uses whole-model lean instead of skeletal animation.
 - Sound cues are synthesized with WebAudio because the visual pack does not include audio.
-- The deterministic smoke uses a test hook to position the player at interaction points, but every state change still goes through keyboard `E`/`R`. Independent verification should also traverse routes with held movement keys.
+- The fast deterministic smoke uses a test hook to position the player at interaction points, but every state change still goes through keyboard `E`/`R`.
